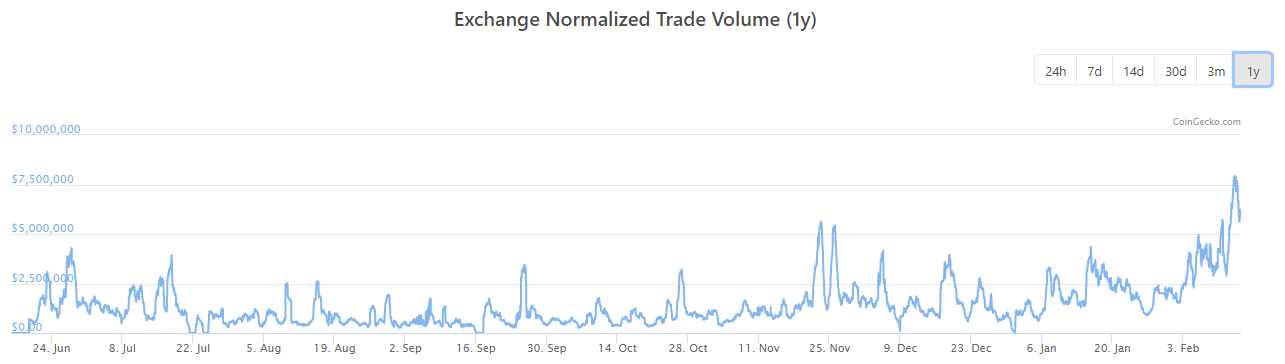
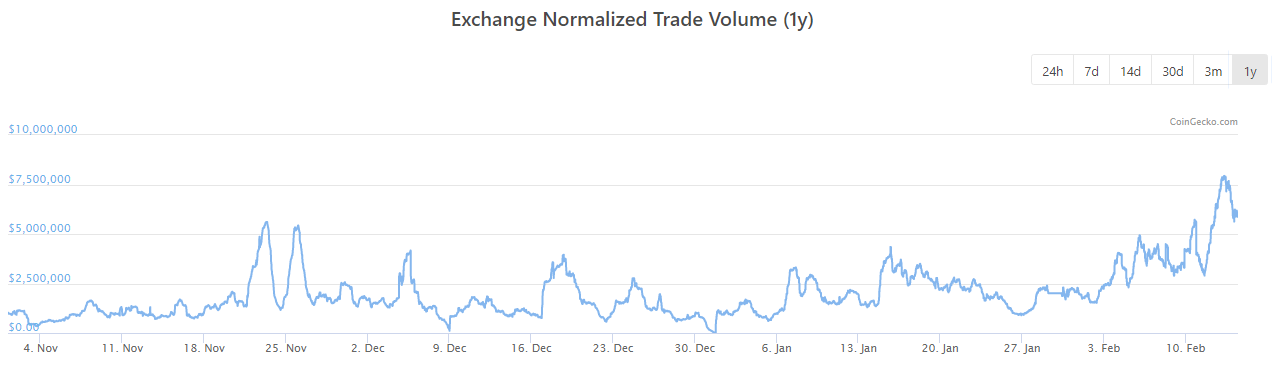
GitBook: [master] 3 pages and 4 assets modified

diff --git a/untitled.md b/untitled.md
@@ -59,7 +59,7 @@ Gluon внешне являясь по своей сути обычном обм
 
 Объемы торгов на бирже Uniswap заметно растут в последнее время и доходят до до 5 млн. долларов в день.
 
-![&#x41E;&#x431;&#x44A;&#x451;&#x43C;&#x44B; &#x442;&#x43E;&#x440;&#x433;&#x43E;&#x432; &#x43D;&#x430; uniswap &#x431;&#x438;&#x440;&#x436;&#x435;](.gitbook/assets/image%20%286%29.png)
+![&#x41E;&#x431;&#x44A;&#x451;&#x43C;&#x44B; &#x442;&#x43E;&#x440;&#x433;&#x43E;&#x432; &#x43D;&#x430; uniswap &#x431;&#x438;&#x440;&#x436;&#x435;](.gitbook/assets/image%20%287%29.png)
 
 
 
@@ -69,125 +69,7 @@ Gluon внешне являясь по своей сути обычном обм
 
 
 
-## Техническая часть
+## 
 
-### API для подключения к Gluon с клиентской стороны
 
-Используется набор функций сходный с функциями обычного обменника.
-
-Техническая документация и playground для тестов [http://dc.quantbrothers.com/index.html\#/](http://dc.quantbrothers.com/index.html#/)
-
-{% api-method method="get" host="http://dc.quantbrothers.com/index.html" path="\#/exchange/get\_exchange\_announcementStatus" %}
-{% api-method-summary %}
-announcementStatus
-{% endapi-method-summary %}
-
-{% api-method-description %}
-Returns status of a given announcement using a transaction hash provided.
-{% endapi-method-description %}
-
-{% api-method-spec %}
-{% api-method-request %}
-{% api-method-path-parameters %}
-{% api-method-parameter name="Tx" type="string" required=true %}
-transaction hash
-{% endapi-method-parameter %}
-{% endapi-method-path-parameters %}
-{% endapi-method-request %}
-
-{% api-method-response %}
-{% api-method-response-example httpCode=200 %}
-{% api-method-response-example-description %}
-list of exchange orders with states
-{% endapi-method-response-example-description %}
-
-```
-[
-  {
-    "announced_source_amount": 0,
-    "authority_order_status": "accepted",
-    "collateral": 0,
-    "deposited_destination_amount": 0,
-    "deposited_source_amount": 0,
-    "destination_accept_height": 0,
-    "destination_address": "string",
-    "destination_currency": "string",
-    "error_message": "string",
-    "min_destination_amount": 0,
-    "order_source_amount": 0,
-    "signature": [
-      0
-    ],
-    "source_accept_height": 0,
-    "source_address": "string",
-    "source_currency": "string"
-  }
-]
-```
-{% endapi-method-response-example %}
-{% endapi-method-response %}
-{% endapi-method-spec %}
-{% endapi-method %}
-
-{% api-method method="get" host="/exchange/currencies" path="" %}
-{% api-method-summary %}
-/exchange/currencies
-{% endapi-method-summary %}
-
-{% api-method-description %}
-Returns a list of supported currencies as a flat array
-{% endapi-method-description %}
-
-{% api-method-spec %}
-{% api-method-request %}
-
-{% api-method-response %}
-{% api-method-response-example httpCode=200 %}
-{% api-method-response-example-description %}
-
-{% endapi-method-response-example-description %}
-
-```
-
-```
-{% endapi-method-response-example %}
-{% endapi-method-response %}
-{% endapi-method-spec %}
-{% endapi-method %}
-
-{% api-method method="get" host="" path="" %}
-{% api-method-summary %}
-/exchange/estimatedExchangeAmount
-{% endapi-method-summary %}
-
-{% api-method-description %}
-Returns estimated exchange value with your API partner fee included.
-{% endapi-method-description %}
-
-{% api-method-spec %}
-{% api-method-request %}
-{% api-method-path-parameters %}
-{% api-method-parameter name="From" required=true type="string" %}
-Source currency
-{% endapi-method-parameter %}
-{% endapi-method-path-parameters %}
-{% endapi-method-request %}
-
-{% api-method-response %}
-{% api-method-response-example httpCode=200 %}
-{% api-method-response-example-description %}
-
-{% endapi-method-response-example-description %}
-
-```
-
-```
-{% endapi-method-response-example %}
-{% endapi-method-response %}
-{% endapi-method-spec %}
-{% endapi-method %}
-
-![](.gitbook/assets/image.png)
-
-
 

diff --git a/api.md b/api.md
@@ -1,0 +1,124 @@
+---
+description: Техническая часть
+---
+
+# API
+
+### API для подключения к Gluon с клиентской стороны
+
+Используется набор функций сходный с функциями обычного обменника.
+
+Техническая документация и playground для тестов [http://dc.quantbrothers.com/index.html\#/](http://dc.quantbrothers.com/index.html#/)
+
+{% api-method method="get" host="http://dc.quantbrothers.com/index.html" path="\#/exchange/get\_exchange\_announcementStatus" %}
+{% api-method-summary %}
+announcementStatus
+{% endapi-method-summary %}
+
+{% api-method-description %}
+Returns status of a given announcement using a transaction hash provided.
+{% endapi-method-description %}
+
+{% api-method-spec %}
+{% api-method-request %}
+{% api-method-path-parameters %}
+{% api-method-parameter name="Tx" type="string" required=true %}
+transaction hash
+{% endapi-method-parameter %}
+{% endapi-method-path-parameters %}
+{% endapi-method-request %}
+
+{% api-method-response %}
+{% api-method-response-example httpCode=200 %}
+{% api-method-response-example-description %}
+list of exchange orders with states
+{% endapi-method-response-example-description %}
+
+```
+[
+  {
+    "announced_source_amount": 0,
+    "authority_order_status": "accepted",
+    "collateral": 0,
+    "deposited_destination_amount": 0,
+    "deposited_source_amount": 0,
+    "destination_accept_height": 0,
+    "destination_address": "string",
+    "destination_currency": "string",
+    "error_message": "string",
+    "min_destination_amount": 0,
+    "order_source_amount": 0,
+    "signature": [
+      0
+    ],
+    "source_accept_height": 0,
+    "source_address": "string",
+    "source_currency": "string"
+  }
+]
+```
+{% endapi-method-response-example %}
+{% endapi-method-response %}
+{% endapi-method-spec %}
+{% endapi-method %}
+
+{% api-method method="get" host="http://dc.quantbrothers.com/index.html" path="\#/exchange/currencies" %}
+{% api-method-summary %}
+/exchange/currencies
+{% endapi-method-summary %}
+
+{% api-method-description %}
+Returns a list of supported currencies as a flat array
+{% endapi-method-description %}
+
+{% api-method-spec %}
+{% api-method-request %}
+
+{% api-method-response %}
+{% api-method-response-example httpCode=200 %}
+{% api-method-response-example-description %}
+
+{% endapi-method-response-example-description %}
+
+```
+
+```
+{% endapi-method-response-example %}
+{% endapi-method-response %}
+{% endapi-method-spec %}
+{% endapi-method %}
+
+{% api-method method="get" host="http://dc.quantbrothers.com/index.html" path="\#/exchange/estimatedExchangeAmount" %}
+{% api-method-summary %}
+/exchange/estimatedExchangeAmount
+{% endapi-method-summary %}
+
+{% api-method-description %}
+Returns estimated exchange value with your API partner fee included.
+{% endapi-method-description %}
+
+{% api-method-spec %}
+{% api-method-request %}
+{% api-method-path-parameters %}
+{% api-method-parameter name="From" required=true type="string" %}
+Source currency
+{% endapi-method-parameter %}
+{% endapi-method-path-parameters %}
+{% endapi-method-request %}
+
+{% api-method-response %}
+{% api-method-response-example httpCode=200 %}
+{% api-method-response-example-description %}
+
+{% endapi-method-response-example-description %}
+
+```
+
+```
+{% endapi-method-response-example %}
+{% endapi-method-response %}
+{% endapi-method-spec %}
+{% endapi-method %}
+
+
+

diff --git a/SUMMARY.md b/SUMMARY.md
@@ -3,6 +3,7 @@
 * [index](README.md)
 * [detailed](detailed.md)
 * [Overview](untitled.md)
+* [API](api.md)
 
 ## technical
 
